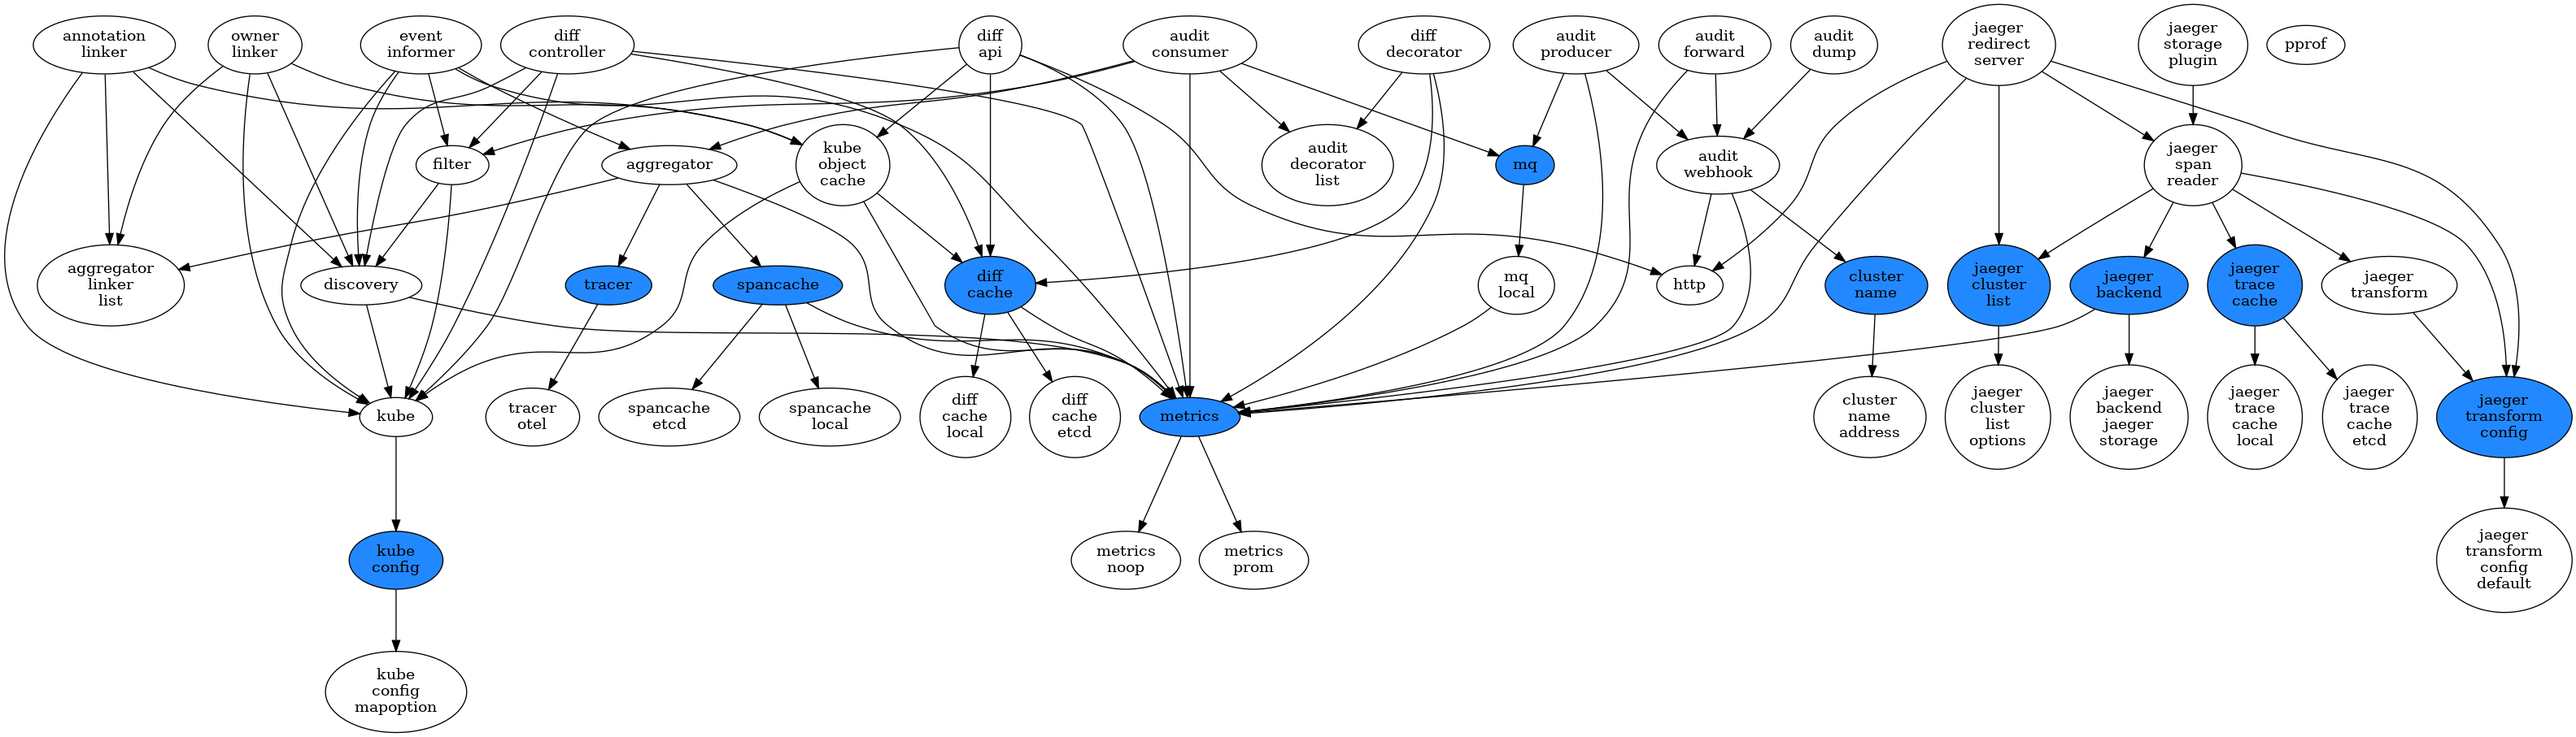
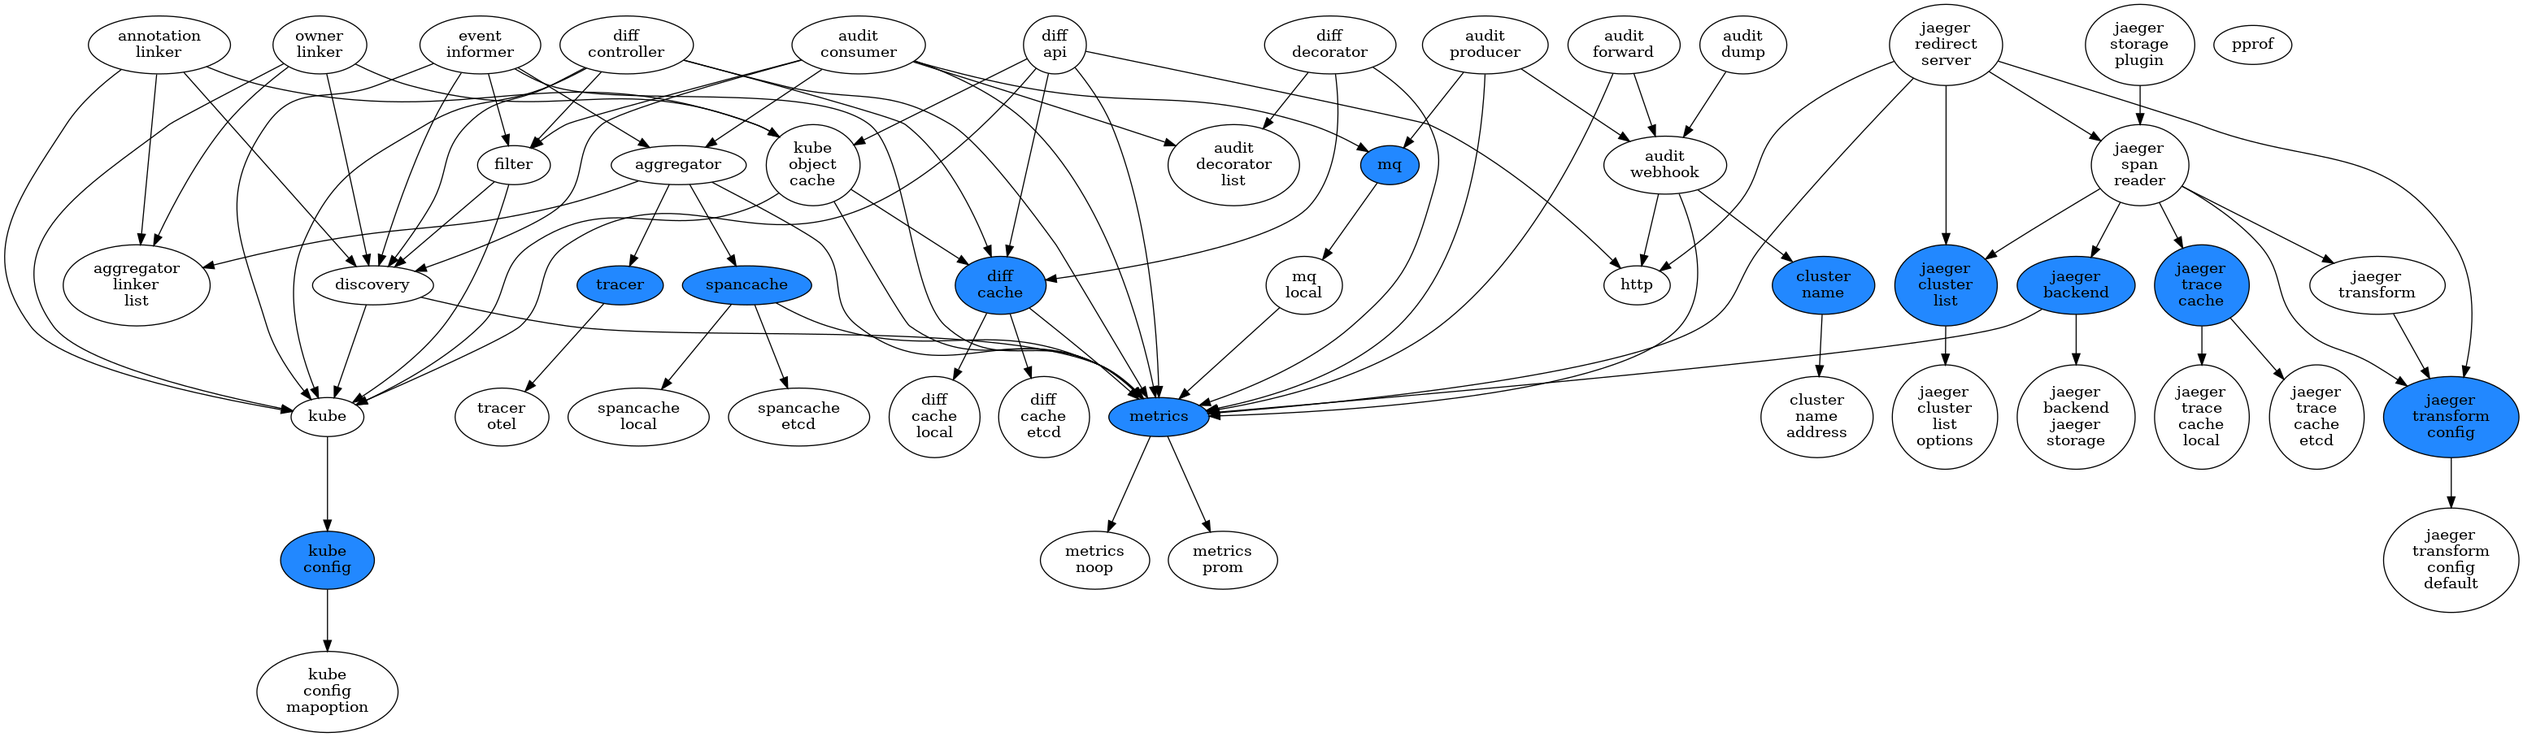
fix(audit/consumer): infer objectRef from responseObject

diff --git a/pkg/audit/consumer/consumer.go b/pkg/audit/consumer/consumer.go
@@ -23,6 +23,7 @@ import (
 
 	"github.com/sirupsen/logrus"
 	"github.com/spf13/pflag"
+	metav1 "k8s.io/apimachinery/pkg/apis/meta/v1"
 	"k8s.io/apimachinery/pkg/apis/meta/v1/unstructured"
 	"k8s.io/apimachinery/pkg/runtime/schema"
 	"k8s.io/apimachinery/pkg/util/sets"
@@ -33,6 +34,7 @@ import (
 	"github.com/kubewharf/kelemetry/pkg/audit"
 	"github.com/kubewharf/kelemetry/pkg/audit/mq"
 	"github.com/kubewharf/kelemetry/pkg/filter"
+	"github.com/kubewharf/kelemetry/pkg/k8s/discovery"
 	"github.com/kubewharf/kelemetry/pkg/manager"
 	"github.com/kubewharf/kelemetry/pkg/metrics"
 	"github.com/kubewharf/kelemetry/pkg/util"
@@ -74,14 +76,16 @@ func (options *options) Setup(fs *pflag.FlagSet) {
 func (options *options) EnableFlag() *bool { return &options.enable }
 
 type receiver struct {
-	options          options
-	logger           logrus.FieldLogger
-	clock            clock.Clock
-	aggregator       aggregator.Aggregator
-	mq               mq.Queue
-	decoratorList    audit.DecoratorList
-	filter           filter.Filter
-	metrics          metrics.Client
+	options        options
+	logger         logrus.FieldLogger
+	clock          clock.Clock
+	aggregator     aggregator.Aggregator
+	mq             mq.Queue
+	decoratorList  audit.DecoratorList
+	filter         filter.Filter
+	metrics        metrics.Client
+	discoveryCache discovery.DiscoveryCache
+
 	ctx              context.Context
 	consumeMetric    metrics.Metric
 	e2eLatencyMetric metrics.Metric
@@ -111,16 +115,18 @@ func New(
 	decoratorList audit.DecoratorList,
 	filter filter.Filter,
 	metrics metrics.Client,
+	discoveryCache discovery.DiscoveryCache,
 ) *receiver {
 	return &receiver{
-		logger:        logger,
-		clock:         clock,
-		aggregator:    aggregator,
-		mq:            queue,
-		decoratorList: decoratorList,
-		filter:        filter,
-		metrics:       metrics,
-		consumers:     map[mq.PartitionId]mq.Consumer{},
+		logger:         logger,
+		clock:          clock,
+		aggregator:     aggregator,
+		mq:             queue,
+		decoratorList:  decoratorList,
+		filter:         filter,
+		metrics:        metrics,
+		discoveryCache: discoveryCache,
+		consumers:      map[mq.PartitionId]mq.Consumer{},
 	}
 }
 
@@ -219,8 +225,11 @@ func (recv *receiver) handleItem(
 	}
 
 	if message.ObjectRef == nil || message.ObjectRef.Name == "" {
-		logger.Debugf("Invalid objectRef")
-		return
+		// try reconstructing ObjectRef from ResponseObject
+		if err := recv.inferObjectRef(message); err != nil {
+			logger.WithError(err).Debug("Invalid objectRef, cannot infer")
+			return
+		}
 	}
 
 	objectRef := util.ObjectRef{
@@ -313,4 +322,45 @@ func (recv *receiver) handleItem(
 	}
 
 	metric.HasTrace = true
+}
+
+func (receiver *receiver) inferObjectRef(message *audit.Message) error {
+	if message.ResponseObject != nil {
+		var partial metav1.PartialObjectMetadata
+		if err := json.Unmarshal(message.ResponseObject.Raw, &partial); err != nil {
+			return fmt.Errorf("unmarshal raw object: %w", err)
+		}
+
+		gv, err := schema.ParseGroupVersion(partial.APIVersion)
+		if err != nil {
+			return fmt.Errorf("object has invalid GroupVersion: %w", err)
+		}
+
+		cdc, err := receiver.discoveryCache.ForCluster(message.Cluster)
+		if err != nil {
+			return fmt.Errorf("no ClusterDiscoveryCache: %w", err)
+		}
+
+		gvr, ok := cdc.LookupResource(gv.WithKind(partial.Kind))
+		if !ok {
+			return fmt.Errorf("conversion of response to GVR failed")
+		}
+
+		message.ObjectRef = &auditv1.ObjectReference{
+			APIGroup:   gvr.Group,
+			APIVersion: gvr.Version,
+			Resource:   gvr.Resource,
+			Namespace:  partial.Namespace,
+			Name:       partial.Name,
+			UID:        partial.UID,
+			// do not set as partial.ResourceVersion, otherwise diff decorator will think this is a no-op
+			ResourceVersion: "",
+			// TODO try to infer subresource from RequestObject
+			Subresource: "",
+		}
+
+		return nil
+	}
+
+	return fmt.Errorf("no ResponseObject to infer objectRef from")
 }
